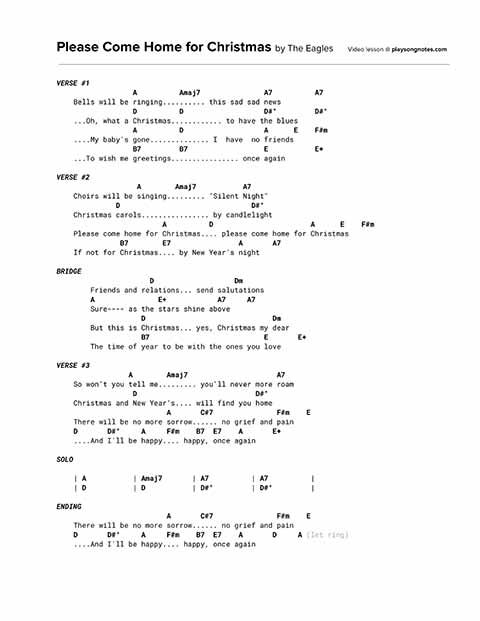
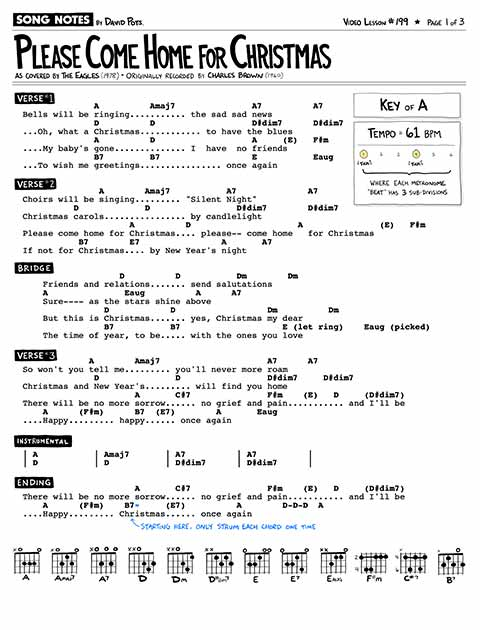
Adds 199

diff --git a/_lessons/199 [Eagles] Please Come Home For Christmas.md b/_lessons/199 [Eagles] Please Come Home For Christmas.md
@@ -11,8 +11,9 @@ slug: "199"
 tags: [Full Song Lesson, Key of A, Backing Track, 1970s, Classic Rock, Holiday]
 redirect_from:
   - /songs/eagles-please-come-home-for-christmas/
-pdf_version: copyright
+pdf_version: musicnotes
 pdf_numpages: 3
+musicnotes_url: https://www.musicnotes.com/l/kdzMn
 patreon_lesson_available: true
 patreon_lesson_url: https://www.patreon.com/posts/printable-lesson-23379862
 ---
@@ -38,56 +39,58 @@ You can currently find the backing track here. Note, this is only the first vers
 
 ## Lyrics with chords
 
-    VERSE #1
-                      A          Amaj7               A7          A7
-        Bells will be ringing........... the sad sad news
-                      D          D                   D#°         D#°
-        ...Oh, what a Christmas............ to have the blues
-                      A          D                   A      E    F#m
-        ....My baby's gone.............. I  have  no friends
-                      B7         B7                  E           E+
-        ...To wish me greetings................ once again
+    See first page of my sheet music for all of the lyrics, with chords included.
 
-    VERSE #2:
-                       A        Amaj7           A7
-        Choirs will be singing......... "Silent Night"
-                  D                               D#°
-        Christmas carols................ by candlelight
-                             A          D                       A     (E)   F#m
-        Please come home for Christmas.... please come home for Christmas
-                   B7        E7                A       A7
-        If not for Christmas.... by New Year's night
+<!-- VERSE #1
+                  A          Amaj7               A7          A7
+    Bells will be ringing........... the sad sad news
+                  D          D                   D#°         D#°
+    ...Oh, what a Christmas............ to have the blues
+                  A          D                   A      E    F#m
+    ....My baby's gone.............. I  have  no friends
+                  B7         B7                  E           E+
+    ...To wish me greetings................ once again
 
-    BRIDGE
-                          D                   Dm
-            Friends and relations... send salutations
-            A               E+            A7     A7
-            Sure---- as the stars shine above
-                        D                              Dm                             
-            But this is Christmas... yes, Christmas my dear
-                        B7                           E       E+
-            The time of year to be with the ones you love
+VERSE #2:
+                   A        Amaj7           A7
+    Choirs will be singing......... "Silent Night"
+              D                               D#°
+    Christmas carols................ by candlelight
+                         A          D                       A     (E)   F#m
+    Please come home for Christmas.... please come home for Christmas
+               B7        E7                A       A7
+    If not for Christmas.... by New Year's night
 
-    VERSE #3:
-                     A        Amaj7                     A7
-        So won't you tell me......... you'll never more roam
-                      D                            D#°
-        Christmas and New Year's.... will find you home
-                              A       C#7               F#m    E
-        There will be no more sorrow...... no grief and pain
-        D       D#°     A     F#m    B7  E7    A       E+
-        ....And I'll be happy.... happy, once again
+BRIDGE
+                      D                   Dm
+        Friends and relations... send salutations
+        A               E+            A7     A7
+        Sure---- as the stars shine above
+                    D                              Dm                             
+        But this is Christmas... yes, Christmas my dear
+                    B7                           E       E+
+        The time of year to be with the ones you love
 
-    SOLO:
+VERSE #3:
+                 A        Amaj7                     A7
+    So won't you tell me......... you'll never more roam
+                  D                            D#°
+    Christmas and New Year's.... will find you home
+                          A       C#7               F#m    E
+    There will be no more sorrow...... no grief and pain
+    D       D#°     A     F#m    B7  E7    A       E+
+    ....And I'll be happy.... happy, once again
 
-        | A           | Amaj7       | A7          | A7          |
-        | D           | D           | D#°         | D#°         |
+SOLO:
 
-    ENDING:
-                              A       C#7               F#m   (E)
-        There will be no more sorrow...... no grief and pain
-        D       D#°     A     F#m    B7  E7    A       D     A (let ring)
-        ....And I'll be happy.... happy, once again
+    | A           | Amaj7       | A7          | A7          |
+    | D           | D           | D#°         | D#°         |
+
+ENDING:
+                          A       C#7               F#m   (E)
+    There will be no more sorrow...... no grief and pain
+    D       D#°     A     F#m    B7  E7    A       D     A (let ring)
+    ....And I'll be happy.... happy, once again -->
 
 ## How to play the chords
 
@@ -107,7 +110,9 @@ Understand that this song has 6 counts per each measure. I'll explain more about
 
 ## Chord progressions
 
-Verse #1:
+    See page 2 of my sheet music for diagrams of the chord progressions used in this song.
+
+<!-- Verse #1:
 
     "Bells will be ringing..."
 
@@ -155,7 +160,7 @@ Verse #4:
     | A           | C#7         | F#m   (E)   | D     D#°   |
     | A     F#m   | B7    E7    | A           | D           | A
 
-                                    ...let final "A" chord ring
+                                    ...let final "A" chord ring -->
 
 ## Strumming
 
